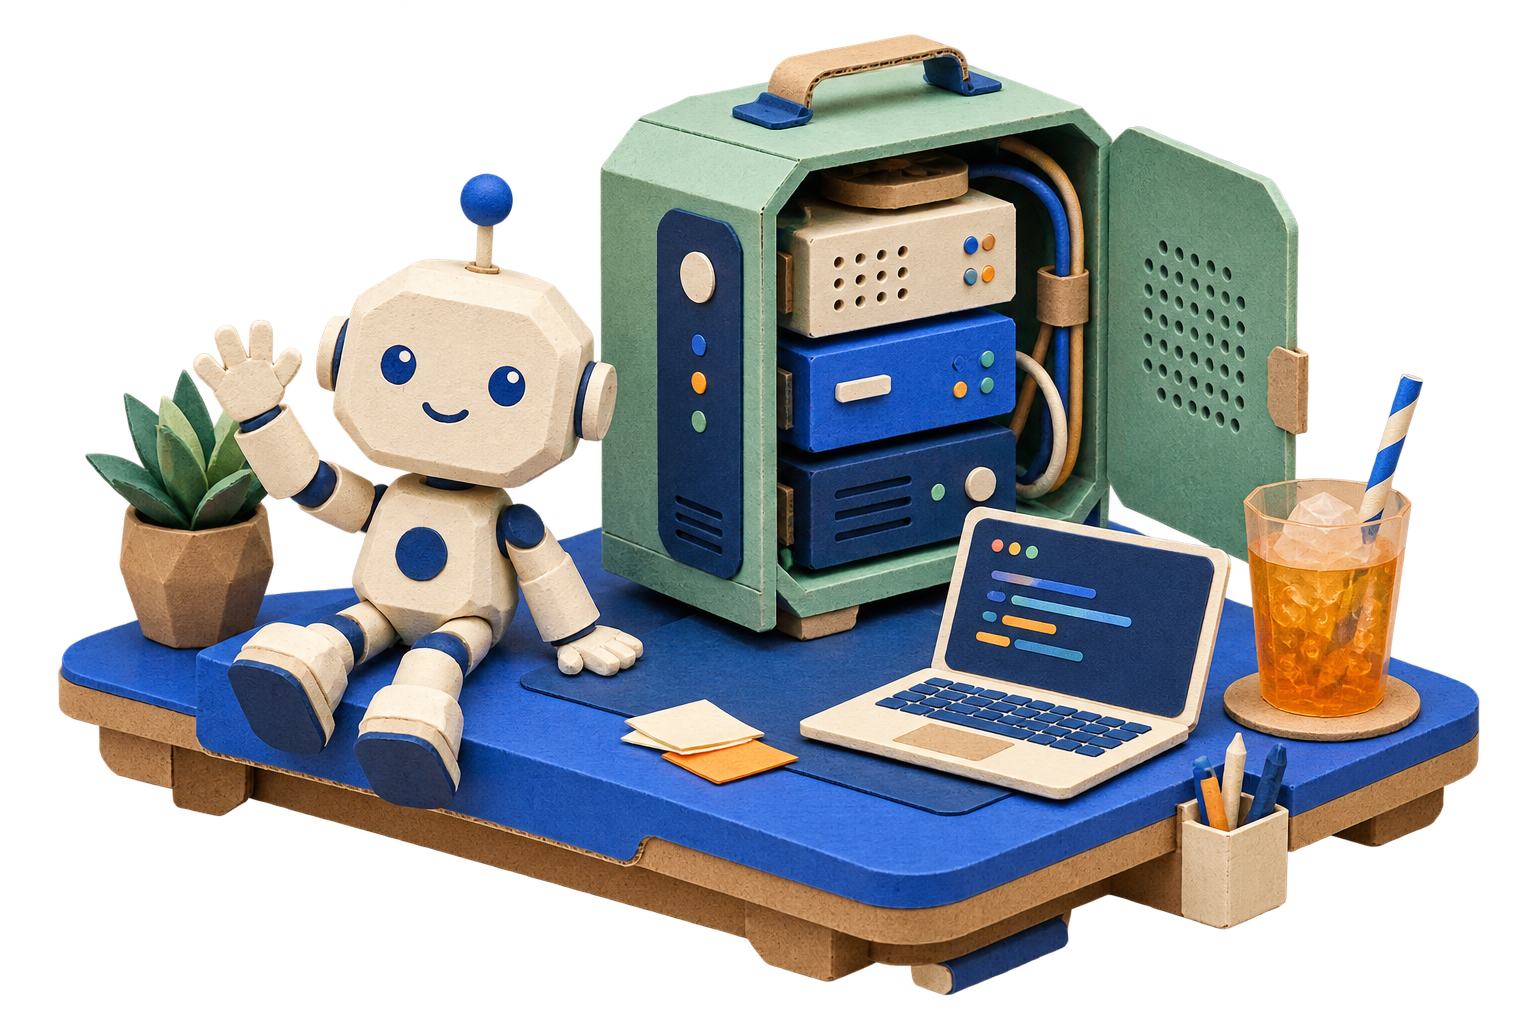
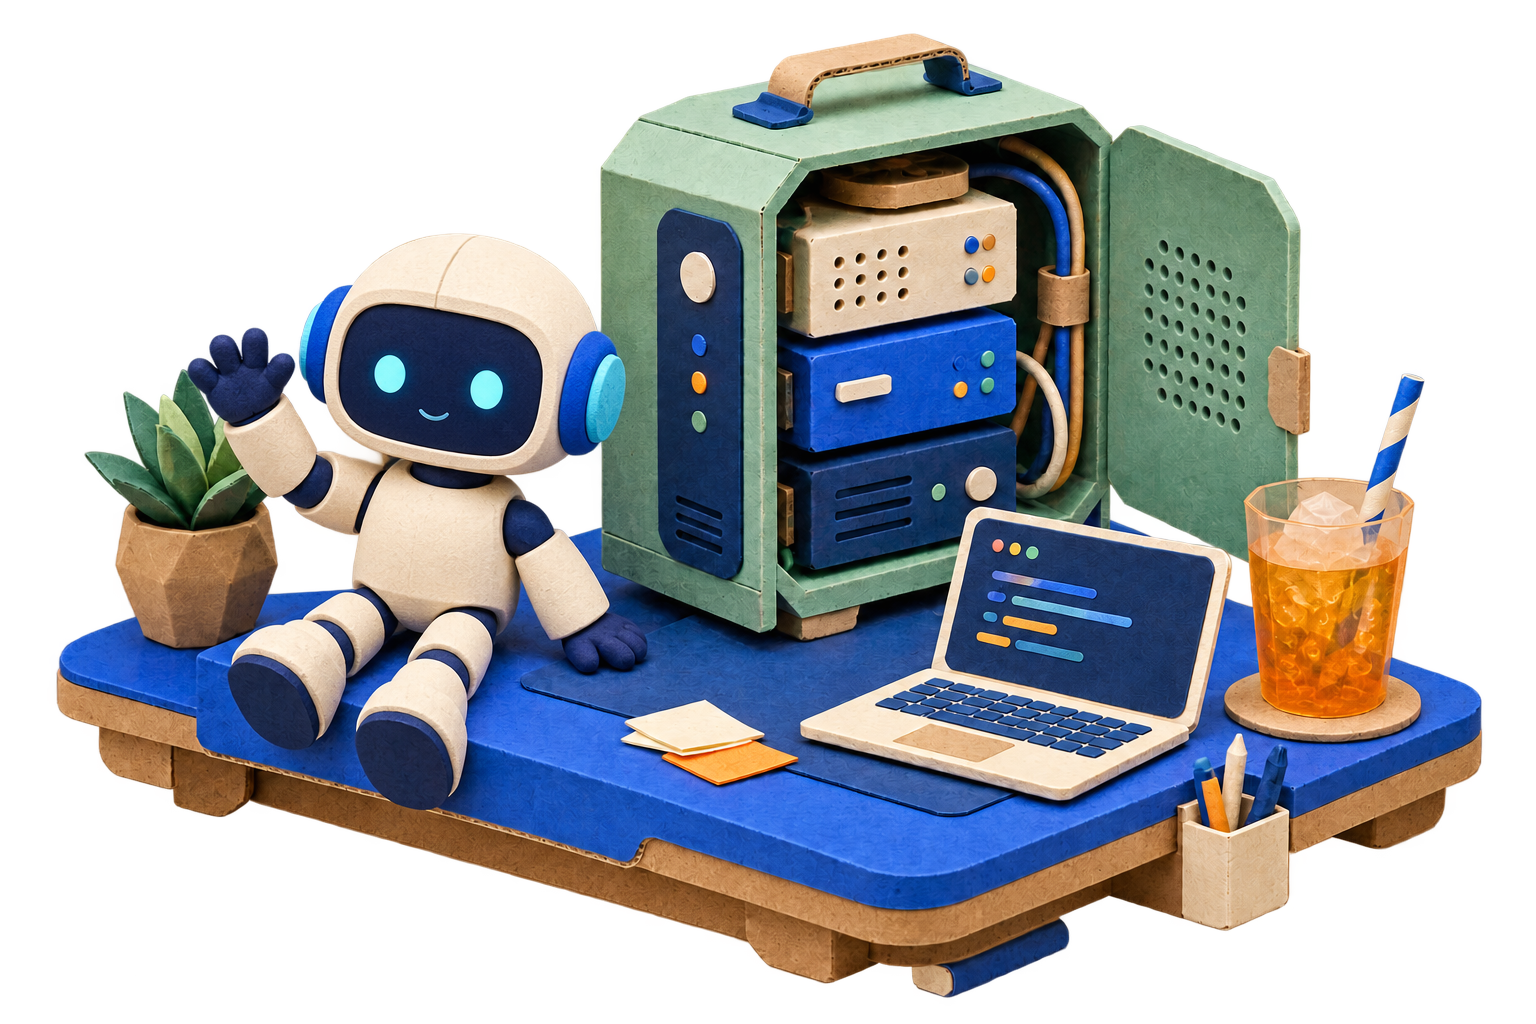
fix(art): match login robot to shared character

diff --git a/docs/page-illustration-checklist.md b/docs/page-illustration-checklist.md
@@ -702,7 +702,8 @@ Admin layout consolidation: all 18 local leaf callers and 15 additional stock ad
 
 ### Approved login illustration verification
 
-- Retain the existing `login-papercraft.png` welcome/workstation scene. It is approved historical artwork with a different robot face; preserve it rather than regenerate it to match newer assets. New assets continue to use the dashboard identity reference.
+- Replacement verified on native localhost login at 1440×1000 in `.artifacts/screenshots/capture-G86HFA/001.png`: matching robot and clean transparent edges beside the unchanged form. The previous guest profile served a cached old image; a fresh guest profile verified the replacement. No form submitted. PNG-only change; no automated tests rerun.
+- Updated `login-papercraft.png` at the user's request to match the dashboard robot: navy face, cyan eyes, blue ears and no antenna. The welcome/workstation composition remains. Exact prompt and generation provenance are in `assets/branding/forgejo/login-art-prompt.md`. Earlier captures below show the superseded robot.
 - Full wrapper and Forgejo 15.0.7 `signin_inner` reviewed: internal-sign-in, password, remember-me, CAPTCHA, OAuth delegate, registration and recovery branches remain native. Delegated provider bodies were not re-audited here.
 - Native guest captures inspected: `.artifacts/screenshots/capture-l1irJf/001.png` (1440×1000) displays the complete scene beside the form; `.artifacts/screenshots/capture-qkriM7/001.png` (390×844) displays the complete form with artwork intentionally hidden by `login.css`. No clipped fields or image detected in these captures.
 - This verifies standalone login presentation only; account-linking/provider/error branches remain unobserved. No login submitted or credentials entered. Documentation-only change, no tests rerun.

diff --git a/assets/branding/forgejo/login-art-prompt.md b/assets/branding/forgejo/login-art-prompt.md
@@ -1,0 +1,7 @@
+# Login robot consistency edit
+
+Generated with the built-in image tool. Inputs: previous `login-papercraft.png` (scene to edit) and `dashboard-papercraft.png` (robot identity). Selected original: `exec-0bb25fc3-4c57-4b01-93ab-24b81f3be66b.png` in the Codex generated-images directory for this task. Copied unchanged; 1536×1024 RGBA, alpha range 0–254. Two earlier RGB outputs with painted checkerboards were rejected.
+
+## Selected prompt
+
+Use case: precise-object-edit. Edit image 1 (Soda login illustration). Image 2 (dashboard) is the exact canonical robot identity reference. Replace ONLY the robot in image 1 with the same character from image 2: rounded cream cardstock helmet with subtle seam, inset dark navy rounded face panel, two luminous cyan oval eyes and tiny cyan smile, cobalt circular ear pieces with cyan centers, no antenna, cream rounded torso with no chest badge, navy joints and navy mitten hands, navy soles. Keep its seated welcoming pose, raised waving hand, location and scale. Preserve image 1's open mint server cabinet, laptop, plant, drink, stationery, blue platform, camera, framing, lighting and handcrafted paper/felt material style. The robot must look unmistakably like image 2, not the original cream-faced antenna robot. Landscape 1536x1024 PNG with genuinely transparent background around the full isolated scene, preserve soft contact shadows, no background rectangle, no text or watermark. CRITICAL: transparent background output required; use alpha transparency background, never render a checkerboard pattern. This asset must be RGBA with clear empty pixels outside scene.
